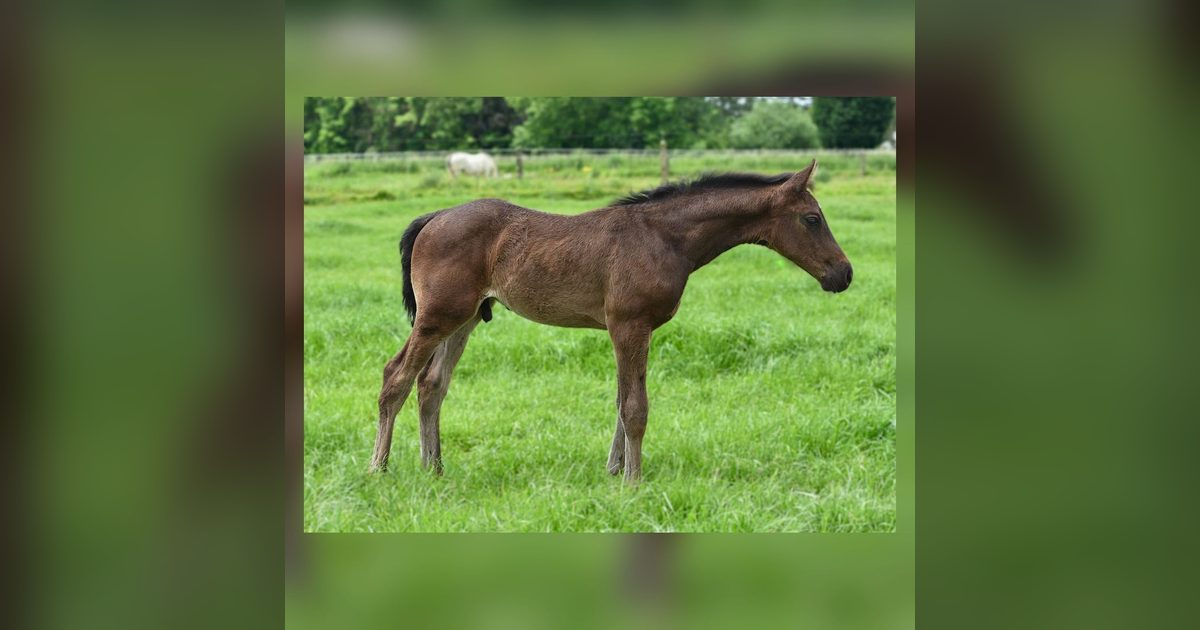
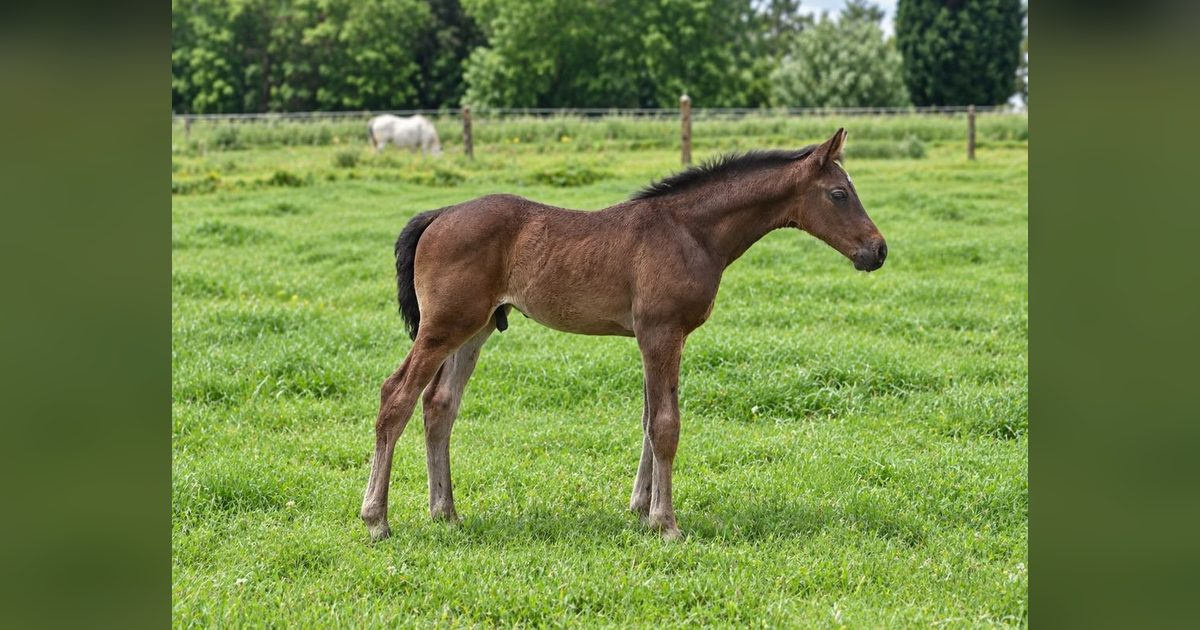
Cacao gets a real photograph too, and only Diamecho keeps a composed one
Six horses now carry a picture Mark supplied this afternoon: Filou, Diabalou,
Unguessable, Waikiki, Diamecho and Cacao. Five of the six are wider frames of
the same shoots, wide enough that the whole horse survives the square card
without help, so the composed versions were thrown away as each one arrived.

Only Diamecho keeps his. His new frame is the better picture but still runs
1.58 to 1, and a square taken out of that takes his muzzle off.

The SQUARE machinery stays for the next horse that needs it. Four went in this
afternoon and three came straight back out, which is the right direction: a
real photograph beats a composed one every time, and the composition only
exists for the cases where there is no better frame to be had.

Audit green across 118 pages, 200 photographs, none orphaned.

diff --git a/foals/cacao-von-axe-z.html b/foals/cacao-von-axe-z.html
@@ -3304,14 +3304,14 @@
 
   <section class="hp hp--hero">
     
-    <div class="eh__win">
+    <div class="eh__win eh__win--high">
       <img src="/assets/img/horses/cacao-von-axe-z-1.jpg" alt="Cacao Von Axe Z" fetchpriority="high">
       <span class="eh__veil" aria-hidden="true"></span>
       <a class="eh__back" href="/foals"><span aria-hidden="true">&larr;</span> Foals</a>
     </div>
     <div class="wrap hp__grid">
       <div class="hp__col">
-        <div class="hp__pic"><img src="/assets/img/horses/cacao-von-axe-z-2.jpg" alt="Cacao Von Axe Z" loading="lazy"><span class="hz__tag hz__tag--sold" title="Sold to Argentina"><span class="hz__flag"><svg viewBox="0 0 24 16" aria-hidden="true"><rect width="24" height="16" fill="#74ACDF"/><rect y="5.33" width="24" height="5.34" fill="#fff"/><circle cx="12" cy="8" r="1.7" fill="#F6B40E"/></svg></span>Sold to Argentina</span></div>
+        <div class="hp__pic"><img src="/assets/img/horses/cacao-von-axe-z-1.jpg" alt="Cacao Von Axe Z" loading="lazy"><span class="hz__tag hz__tag--sold" title="Sold to Argentina"><span class="hz__flag"><svg viewBox="0 0 24 16" aria-hidden="true"><rect width="24" height="16" fill="#74ACDF"/><rect y="5.33" width="24" height="5.34" fill="#fff"/><circle cx="12" cy="8" r="1.7" fill="#F6B40E"/></svg></span>Sold to Argentina</span></div>
       </div>
       <div class="hp__col">
         <div class="hp__tray">
@@ -3377,17 +3377,16 @@
     </div>
   </section>
 
-  <section class="hgal">
+  <section class="hgal is-stand">
     <div class="wrap">
       <div class="hgal__head">
-        <p class="plaque">two more pictures</p>
-        <h2 class="hgal__h">More of <em>Cacao Von Axe Z</em></h2>
+        <p class="plaque">Placeholder</p>
+        <h2 class="hgal__h">More pictures of <em>Cacao Von Axe Z</em></h2>
       </div>
       <div class="hgal__rail" tabindex="0" aria-label="Pictures, scroll sideways">
-        <button type="button" class="hgal__f" data-full="/assets/img/horses/cacao-von-axe-z-3.jpg"
-                aria-label="Open picture 1 of 2 at full size"><img src="/assets/img/horses/cacao-von-axe-z-3.jpg" alt="Cacao Von Axe Z" loading="lazy"></button>
-        <button type="button" class="hgal__f" data-full="/assets/img/horses/cacao-von-axe-z-4.jpg"
-                aria-label="Open picture 2 of 2 at full size"><img src="/assets/img/horses/cacao-von-axe-z-4.jpg" alt="Cacao Von Axe Z" loading="lazy"></button>
+        <span class="hgal__f hgal__f--stand"><img src="/assets/img/placeholder/gallery-1.jpg" alt="Placeholder: a photograph of Cacao Von Axe Z is still to be supplied" loading="lazy"></span>
+        <span class="hgal__f hgal__f--stand"><img src="/assets/img/placeholder/gallery-2.jpg" alt="Placeholder: a photograph of Cacao Von Axe Z is still to be supplied" loading="lazy"></span>
+        <span class="hgal__f hgal__f--stand"><img src="/assets/img/placeholder/gallery-3.jpg" alt="Placeholder: a photograph of Cacao Von Axe Z is still to be supplied" loading="lazy"></span>
       </div>
       <div class="hgal__bar">
         <div class="hgal__dots" role="tablist" aria-label="Pictures">
@@ -3395,6 +3394,8 @@
                   aria-label="Picture 1" aria-selected="true"></button>
           <button type="button" class="hgal__dot" role="tab" data-to="1"
                   aria-label="Picture 2" aria-selected="false"></button>
+          <button type="button" class="hgal__dot" role="tab" data-to="2"
+                  aria-label="Picture 3" aria-selected="false"></button>
         </div>
         <div class="hgal__arrows">
           <button type="button" class="hgal__arrow" data-step="-1" aria-label="Previous picture">&#8592;</button>

diff --git a/horses-whatsapp.js b/horses-whatsapp.js
@@ -497,6 +497,12 @@ var WHATSAPP = {
    ],
    "source": "WhatsApp, Stud Von Axe, 6 September 2026"
   },
+  "cacao-von-axe-z": {
+   "photos": [
+    "assets/img/horses/cacao-von-axe-z-1.jpg"
+   ],
+   "source": "WhatsApp, Stud Von Axe, 6 September 2026"
+  },
   "agousha-vd-berghoeve-z": {
    "body": [
     "Directly out of Gatoucha van’t Roosakker, from one of the most influential families in modern show jumping.",

diff --git a/scripts/place-whatsapp-photos.py b/scripts/place-whatsapp-photos.py
@@ -66,6 +66,7 @@ SUPPLIED = {
     # muzzle off. This one is supplied AND composed: the new photograph on a
     # square ground of its own.
     'diamecho-von-axe-z': 'content/manual-photos/diamecho-von-axe-z.jpeg',
+    'cacao-von-axe-z': 'content/manual-photos/cacao-von-axe-z.jpeg',
 }
 
 # The card window is square and a landscape photograph loses a third of its
@@ -74,7 +75,12 @@ SUPPLIED = {
 # with the space around him filled from the same photograph, enlarged and
 # blurred. Nothing is invented and nothing of the horse is lost. Mark named
 # these four on 7 September.
-SQUARE = {'diamecho-von-axe-z', 'cacao-von-axe-z'}
+# Empty, and that is the good outcome. Four horses were listed here on
+# 7 September because the square card cut them; Mark then found a wider frame
+# of each, and a real photograph beats a composed one every time. Diamecho is
+# the one exception and he is handled below. The machinery stays: the next
+# horse whose card cuts him goes in here and needs nothing else.
+SQUARE = {'diamecho-von-axe-z'}
 
 
 def to_square(im, margin=0.03):
